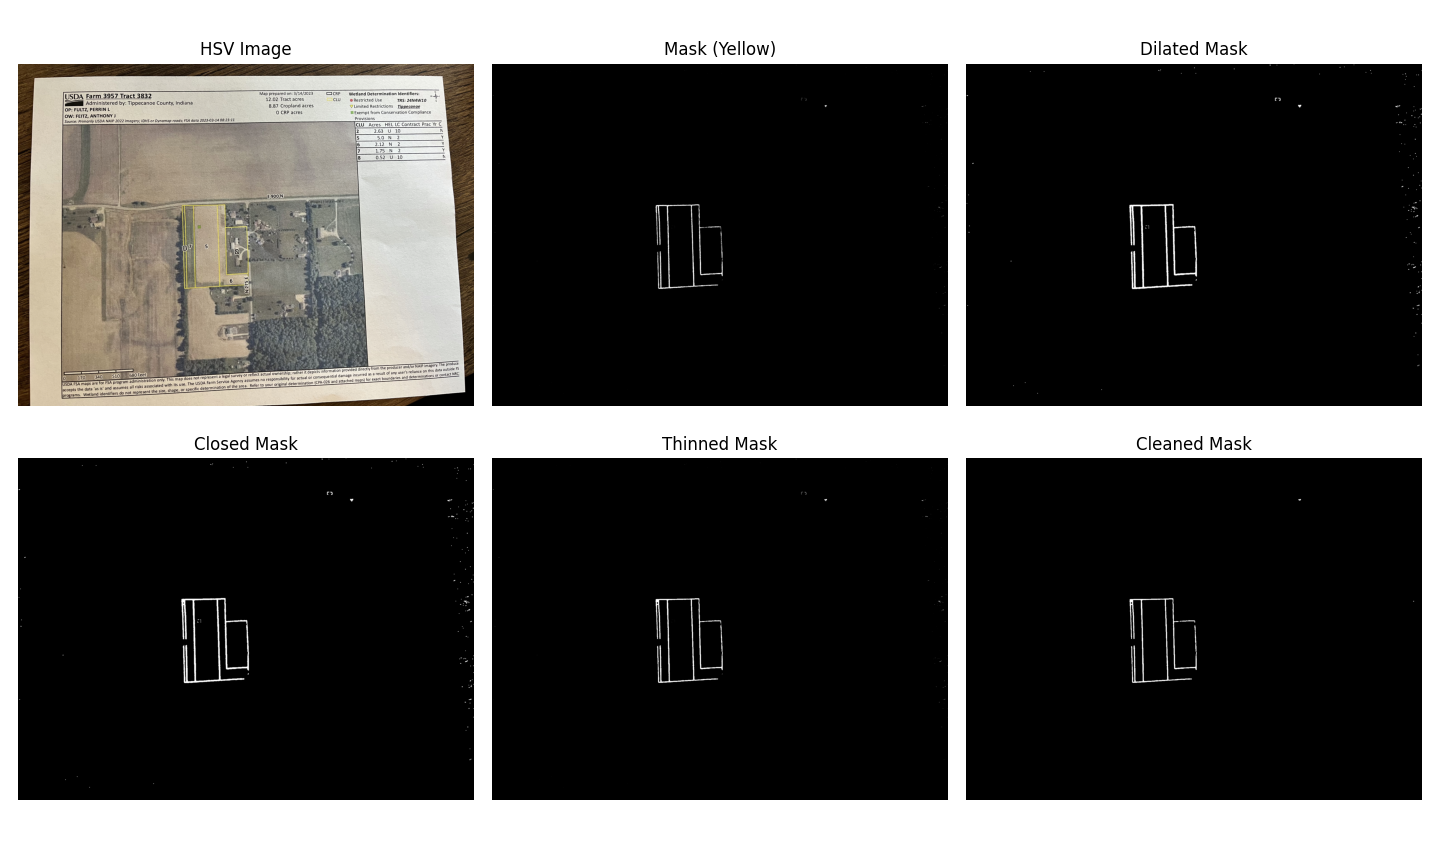
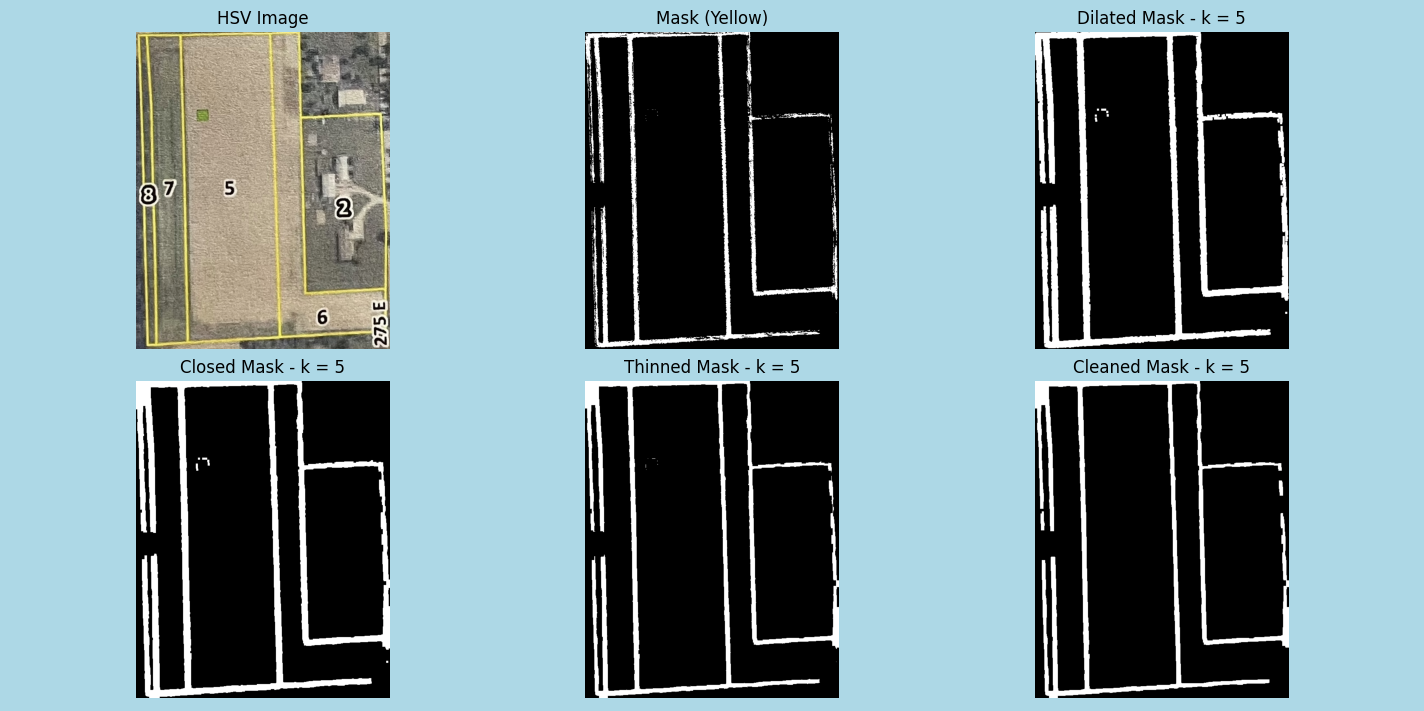
VERSION 1

diff --git a/main.py b/main.py
@@ -1,3 +1,10 @@
+'''
+Author: Mitchell Polk
+
+This is an implementation of an automated approach to converting FSA files 
+of farmland tracts into geo-referenced ShapeFiles using Python.
+'''
+
 import cv2
 import numpy as np
 import matplotlib.pyplot as plt
@@ -17,52 +24,57 @@ upper_yellow = np.array([30, 255, 255])
 mask = cv2.inRange(hsv, lower_yellow, upper_yellow)
 
 # Step 1: Dilate the yellow areas to thicken the lines
-dilation_kernel = np.ones((25, 25), np.uint8)  # Use a 5x5 kernel, adjust based on the image
+k1 = 25
+dilation_kernel = np.ones((k1, k1), np.uint8)  # Use a 5x5 kernel, adjust based on the image
 mask_dilated = cv2.dilate(mask, dilation_kernel, iterations=1)
 
 # Step 2: Apply morphological closing to reconnect the boundaries
-close_kernel = np.ones((100, 100), np.uint8)
+k2 = 100
+close_kernel = np.ones((k2, k2), np.uint8)
 mask_closed = cv2.morphologyEx(mask_dilated, cv2.MORPH_CLOSE, close_kernel)
 
 # Step 3: Erode the image to thin the lines back to their original size
-erode_kernel = np.ones((25, 25), np.uint8)
+k3 = 25
+erode_kernel = np.ones((k3, k3), np.uint8)
 mask_thinned = cv2.erode(mask_closed, erode_kernel, iterations=1)
 
 # Optional: Clean small noise after these operations
-clean_kernel = np.ones((5, 5), np.uint8)
+k4 = 5
+clean_kernel = np.ones((k4, k4), np.uint8)
 mask_cleaned = cv2.morphologyEx(mask_thinned, cv2.MORPH_OPEN, clean_kernel)
 
 # Convert images to RGB for matplotlib compatibility (except for the mask images)
-# hsv_rgb = cv2.cvtColor(hsv, cv2.COLOR_HSV2RGB)
-# mask_rgb = cv2.cvtColor(mask, cv2.COLOR_GRAY2RGB)
-# mask_dilated_rgb = cv2.cvtColor(mask_dilated, cv2.COLOR_GRAY2RGB)
-# mask_closed_rgb = cv2.cvtColor(mask_closed, cv2.COLOR_GRAY2RGB)
-# mask_thinned_rgb = cv2.cvtColor(mask_thinned, cv2.COLOR_GRAY2RGB)
-# mask_cleaned_rgb = cv2.cvtColor(mask_cleaned, cv2.COLOR_GRAY2RGB)
+hsv_rgb = cv2.cvtColor(hsv, cv2.COLOR_HSV2RGB)
+mask_rgb = cv2.cvtColor(mask, cv2.COLOR_GRAY2RGB)
+mask_dilated_rgb = cv2.cvtColor(mask_dilated, cv2.COLOR_GRAY2RGB)
+mask_closed_rgb = cv2.cvtColor(mask_closed, cv2.COLOR_GRAY2RGB)
+mask_thinned_rgb = cv2.cvtColor(mask_thinned, cv2.COLOR_GRAY2RGB)
+mask_cleaned_rgb = cv2.cvtColor(mask_cleaned, cv2.COLOR_GRAY2RGB)
 
 # Plot Image Processing Steps
-# fig, axs = plt.subplots(2, 3, figsize=(12, 8))
-# images = [hsv_rgb, mask_rgb, mask_dilated_rgb, mask_closed_rgb, mask_thinned_rgb, mask_cleaned_rgb]
-# titles = ['HSV Image', 'Mask (Yellow)', 'Dilated Mask', 'Closed Mask', 'Thinned Mask', 'Cleaned Mask']
+fig, axs = plt.subplots(2, 3, figsize=(12, 8))
+fig.set_facecolor("lightblue")
+images = [hsv_rgb, mask_rgb, mask_dilated_rgb, mask_closed_rgb, mask_thinned_rgb, mask_cleaned_rgb]
+titles = ['HSV Image', 'Mask (Yellow)', f'Dilated Mask - k = {k1}', f'Closed Mask - k = {k2}', f'Thinned Mask - k = {k3}', f'Cleaned Mask - k = {k4}']
 
-# for i, ax in enumerate(axs.flat):
-#     ax.imshow(images[i])
-#     ax.set_title(titles[i])
-#     ax.axis('off')  # Hide axis
+for i, ax in enumerate(axs.flat):
+    ax.imshow(images[i])
+    ax.set_title(titles[i])
+    ax.axis('off')  # Hide axis
 
-# plt.tight_layout()
-# plt.show()
+plt.tight_layout()
+plt.show()
 
 # Find cleaned mask contours
 contours, _ = cv2.findContours(mask_cleaned, cv2.RETR_EXTERNAL, cv2.CHAIN_APPROX_SIMPLE)
+
+# Define pixel coordinates of the corresponding corners in the image
+all_points = np.concatenate(contours, axis=0)
 
 # GPS coordinates for known points (NW, SW, SE)
 nw_gps = (-86.85730942572702, 40.54745748561711)
 sw_gps = (-86.85731927962509, 40.54513029767603)
 se_gps = (-86.8550136956354, 40.54515420546383)
-
-# Define pixel coordinates of the corresponding corners in the image
-all_points = np.concatenate(contours, axis=0)
 
 # Find the extreme points (nw, sw, se)
 nw_pixel = tuple(all_points[all_points[:, :, 0].argmin()][0])  # Furthest left (min x)
@@ -98,4 +110,4 @@ gdf = gpd.GeoDataFrame(geometry=polygons)
 gdf.set_crs("EPSG:4326", inplace=True)
 
 # Step 3: Save the polygons as a shapefile
-gdf.to_file("output_shapefile.shp")
+gdf.to_file("defaultkernels_shapefile.shp")

diff --git a/README.md b/README.md
@@ -1,3 +1,55 @@
-# fsadoc-shapefile-automation
-An automated process of converting FSA files of farmland tracts into geo-referenced ShapeFiles using Python
+# Automated Conversion of FSA Document to Shapefiles
+This is an implementation of an automated approach to converting FSA files of farmland tracts into geo-referenced ShapeFiles using Python.
 
+## This repository includes:
+1) 'main.py' - the python file containing code that performs the cropped image to shapefile conversion
+2) 2 Example output shapefiles.
+3) 3 input image examples used to test the project.
+4) A folder called Figures, contianing plots generated by matplotlib, that illustrates the effect of different kernel sizes on the resulting output.
+
+### Section 1: main.py
+main.py was written with the help of GTP 3.5 and follows this outline:
+- Import necessary packages
+- Convert the image from BGR format to HSV, making the image's distinct colors easier to recognize by the computer.
+- Provides the computer with a definition of yellow found in the image. This definition contains a lower and upper boundary to encompass the various shades of yellow.
+
+- Masks the image by turning off all pixels that fall outside the lower and upper yellow HSV color values.
+- Dilates (enlarges) the yellow pixels kept on by the mask using a kernel size of '25' and OpenCV's function 'cv2.dilate'. 25 was chosen because it helped merge small gaps (and corners), enabling the next step to act more effectively.
+- Closes the gaps between the yellow pixels using a kernel size of '100' and OpenCV's 'cv2.morphologyEx' with the necessary second parameter 'cv2.MORPH_CLOSE'. 100 was chosen because it will close large gaps.
+- Erodes the previously enlarged, kept on by the mask, region (thins the lines back out) using a kernel size of '25' and OpenCV's 'cv2.erode' function. The lines needed to be thinned to maintain accurate proportions when mapped using the affine transform (later in the process).
+- Cleans up noise in the eroded image using a kernel size of '5' and OpenCV's 'cv2.morphologyEX' function with the necessary second parameter of 'cv2.MORPH_OPEN'. Not much cleaning was needed because the image was cropped to exclude as much unneeded yellow as possible.
+
+- Plots the changes made by the previous process in a single figure using matplotlib.
+
+- Using OpenCV's 'cv2.findContours' function, the program then searches for the outer boundary of the yellow region kept by the mask.
+- The contour point array is then flattened for ease of acces later in the program.
+- 3 GPS Coordinates (in this case NW, SW, and SE) are chosen to be used in the generation of an affine transform. The NE coordinate was ignored because it did not represent the actual NE corner of the image and was not needed.
+- Pixel indices of the same 3 corners of the actual image are found (NW, SW, and SE). This is determined by a search for each corner.
+- Defines the source and destination points that will be used in the affine transformation.
+- Generates the Affine Transform, used next in the mapping of image pixels to geospatial coordinates.
+- Each point in the contour list is then mapped using the previously generated affine transformation, resulting in a list of 'shapely.Polygon' points that can be represented in '.shp' format.
+- A 'gpd.GeoDateFrame' is then created and its geometry is set to the list of polygon points.
+- A coordinate reference system is then applied (in this case a common default is applied: EPSG:4326).
+- The resulting output is saved using a defined filepath and in shapefile format.
+
+### Section 2: The Output Shapefiles
+The first 'wholeparcel_shapefile.shp' contains the resulting shapefile if the user were to place the correct input without making any edits. The second 'defaultkernels_shapefile.shp' contains the resulting shapefile should the kernel size of all 4 morphological processes, performed on the input found in 'main.py', be set to the default value of 5.
+
+### Section 3: The Input Images
+- The original image, as sent to me, is the 'FSA_Plot.heic' file. I manually converted it to a .jpeg using an online converter. This resulted in 'FSA_Plot.jpg'.
+![The original, uncropped input](./FSA_Plot.jpg)
+
+- After a few tries with 'main.py', I learned that the surrounding white portions of the paper document were being included in the yellow HSV color range and kept in the mask. While this could potentially be cleaned in the morphological processes, I thought it simpler to simply remove the opportunity for error here. Therefore, I cropped the image to include just the yellow bounded region, tightening the cropped boundary as much as I could. A tighter crop DOES NOT increase the success of the process, plenty of green space can be kept as long as the color values do not closely resemble yellow.
+![The original, uncropped input](./FSA_Plot_CROPPED.jpg)
+
+
+### Section 4: Figures
+The figures folder contains a couple exported figures from matplotlib, containing the results of the conversion process with different parameter sets. The names of each file briefly explain what they represent, but I will provide more detail here:
+- 'boundary_5x5kernel_all.png' contains the process if all kernels were set to the default value of 5.
+![Image found in Figures directory](./Figures/boundary_5x5kernel_all.png)
+- 'boundary_25-100-25-5-kernels.png' contains the process if each kernel were adjusted to 25, 100, 25, 5 in that order of the process. This combination, I found, produced a quality output because it enlarged the mask a bit, then closed large gaps (hence the large kernel size), then eroded it an equal amount to its enlargement, and then cleaned up little specks that may have been present in the surrounding regions of the image.
+![Image found in Figures directory](./Figures/boundary_25-100-25-5-kernels.png)
+
+## Future Directions and Further Uses:
+- If you wanted to keep certain regions and exclude others, you could manually make edits to the input image, drawing yellow around the desired regions and covering with black the yellow boundaries you don't want to keep. 
+What that will do though is redefine the corners of the image, requiring some edits to the code. Logic would need to be added that maps the edited image to recalculated gps coordinates according to the new yellow boundaries. This would also require that the input is cropped so that 3 corners of the image are as close as possible to 3 provided GPS coordinates in the real-world. These will need to be accurate when recalculating the edited gps coordinates and corner pixels locations.
